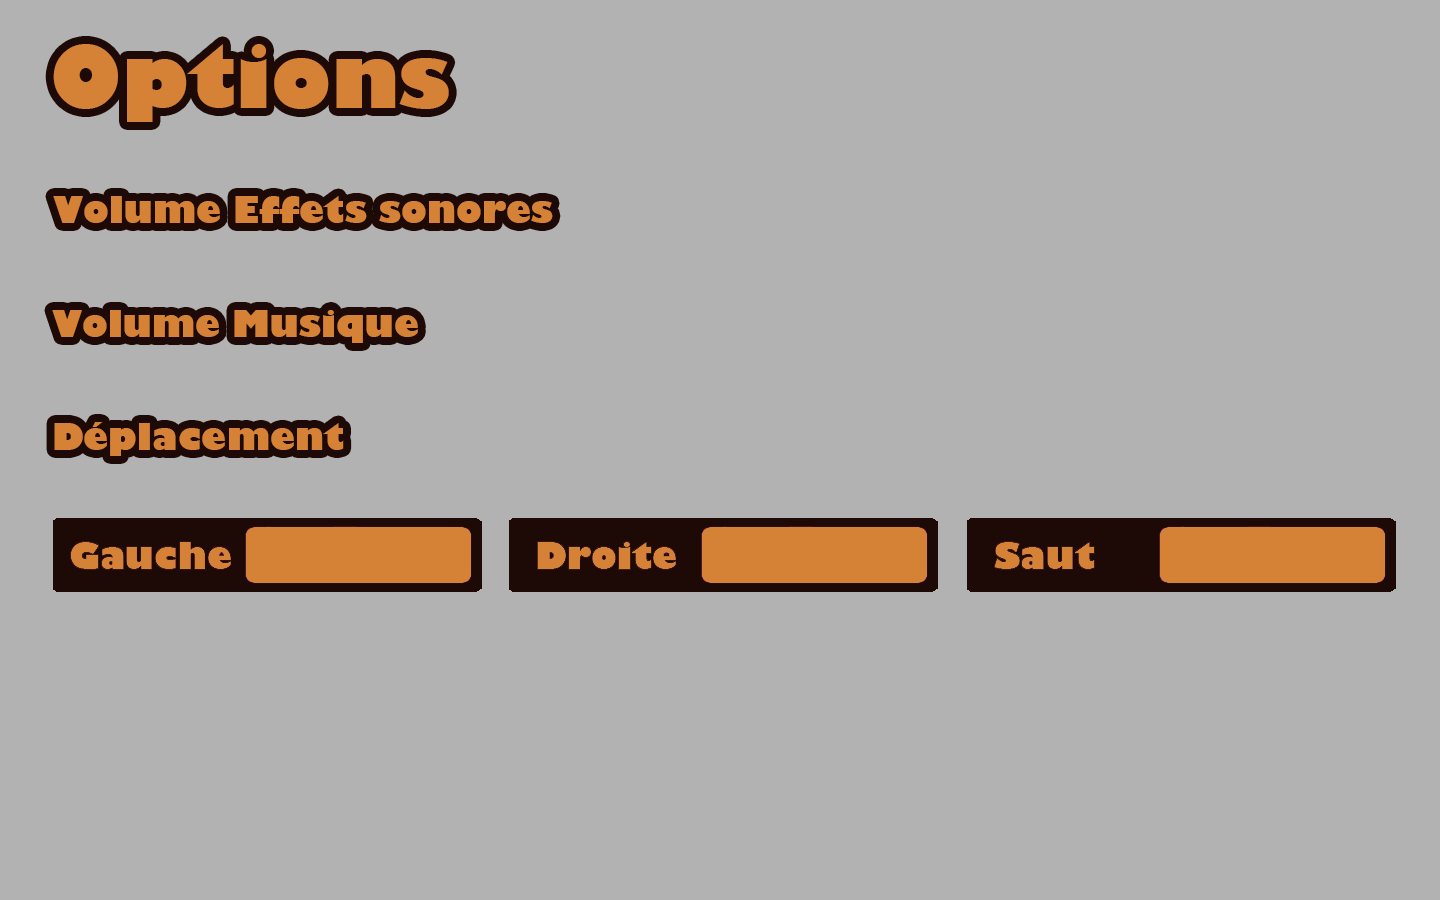
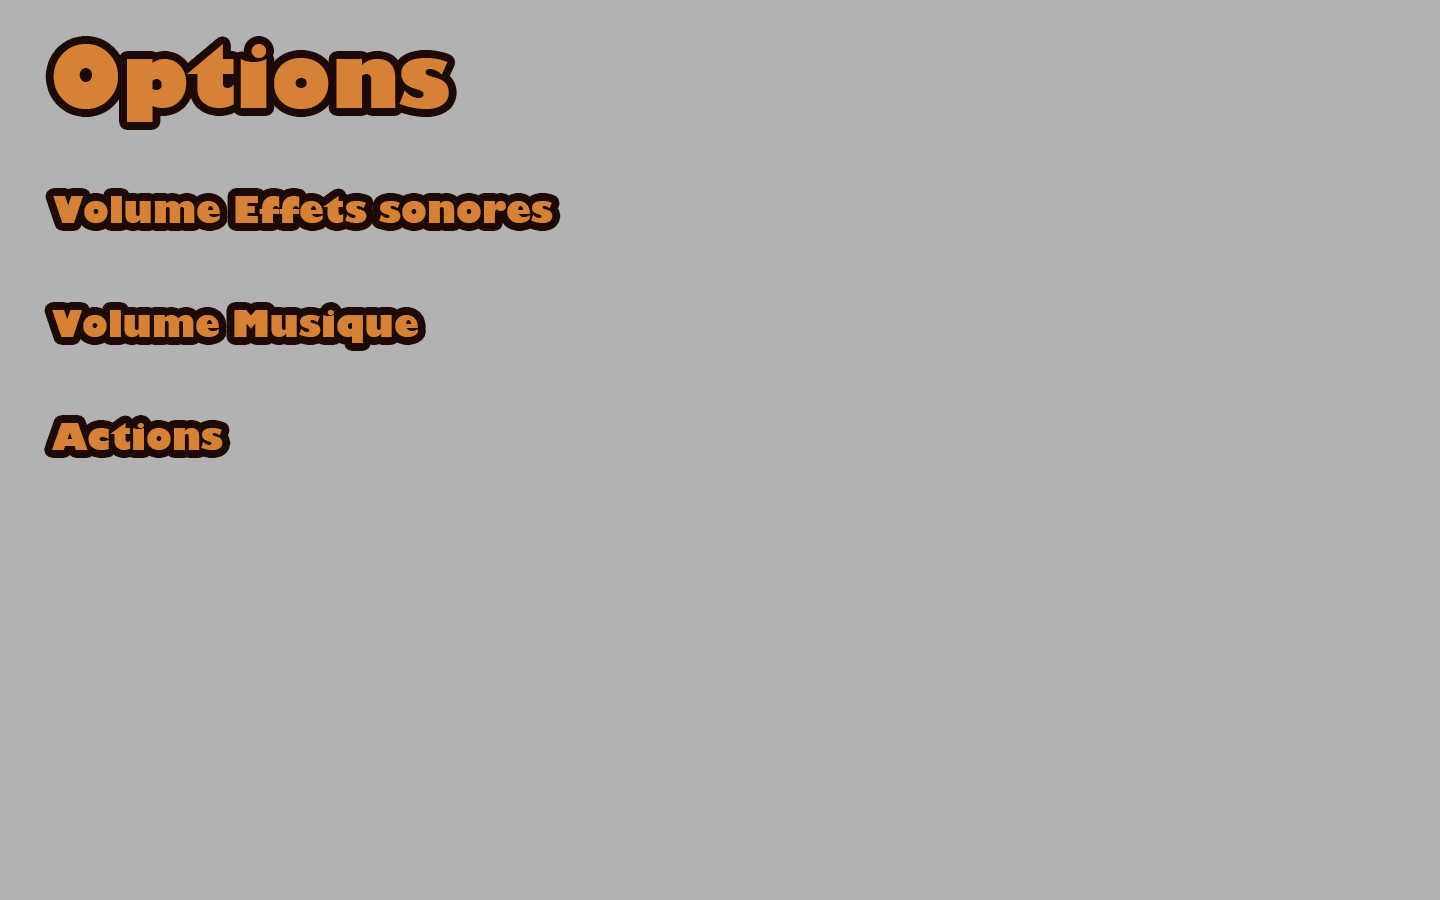
Modification des boutons et rajouts de boutons...etc etc écris pas Tristan

Changed region(s): [[0.0312, 0.56, 0.9688, 0.6844], [0.0312, 0.4356, 0.25, 0.5289]]

diff --git a/BBTA/BBTA/Classe/Menus/MenuOptions.cs b/BBTA/BBTA/Classe/Menus/MenuOptions.cs
@@ -13,7 +13,10 @@ namespace BBTA.Classe.Menus
     public class MenuOptions : MenuArrierePlan
     {
         private Texture2D lettrage;
-        private Bouton btnRetour;
+        //private Bouton Annuler;
+        private Bouton btnDefaut;
+        private Bouton btnValider;
+
         private EtatJeu prochainEtat;
 
         private Slider sliderEffet;
@@ -34,9 +37,6 @@ namespace BBTA.Classe.Menus
         protected override void LoadContent()
         {
             lettrage = Game.Content.Load<Texture2D>(@"Ressources\Menus\Options\lettrageOption");
-            btnRetour = new Bouton(Game.Content.Load<Texture2D>(@"Ressources\Menus\Options\btnRetour"), new Vector2(1200, 800), null);
-            btnRetour.Clic += new EventHandler(btnRetour_Clic);
-
             sliderEffet = new Slider(Game.Content.Load<Texture2D>(@"Ressources\Menus\Options\ArrierePlanSlider"), new Vector2(900, 225),
                                        Game.Content.Load<Texture2D>(@"Ressources\Menus\Options\BarreSlider"),
                                        Game.Content.Load<Texture2D>(@"Ressources\Menus\Options\btnSlider"),
@@ -46,6 +46,9 @@ namespace BBTA.Classe.Menus
                                         Game.Content.Load<Texture2D>(@"Ressources\Menus\Options\BarreSlider"),
                                         Game.Content.Load<Texture2D>(@"Ressources\Menus\Options\btnSlider"),
                                         (float)OptionJeu.InformationSonore.Musique / 100);
+
+            /*Annuler = new Bouton(Game.Content.Load<Texture2D>(@"Ressources\Menus\Options\btnRetour"), new Vector2(1200, 800), null);
+            Annuler.Clic += new EventHandler(btnRetour_Clic);*/
             base.LoadContent();
         }
 
@@ -57,7 +60,7 @@ namespace BBTA.Classe.Menus
 
         public override void Update(GameTime gameTime)
         {
-            btnRetour.Update(null);
+            //Annuler.Update(null);
             base.Update(gameTime);
             sliderEffet.Deplacement();
             pourcentageEffet = sliderEffet.ObtenirPourcentage();
@@ -81,9 +84,9 @@ namespace BBTA.Classe.Menus
             base.Draw(gameTime);
             spriteBatch.Begin(SpriteSortMode.Immediate, BlendState.AlphaBlend, null, null, null, null, Resolution.getTransformationMatrix());
             spriteBatch.Draw(lettrage, Vector2.Zero, Color.White);
-            btnRetour.Draw(spriteBatch);
             sliderEffet.Draw(spriteBatch);
             sliderMusique.Draw(spriteBatch);
+            //Annuler.Draw(spriteBatch);
             spriteBatch.End();
         }
 

diff --git a/BBTA/BBTA/Classe/Menus/MenuConfiguration.cs b/BBTA/BBTA/Classe/Menus/MenuConfiguration.cs
@@ -38,8 +38,8 @@ namespace BBTA.Classe.Menus
         protected override void LoadContent()
         {
             lettrage = Game.Content.Load<Texture2D>(@"Ressources\Menus\Configuration\lettrageConfiguration");
-            
-            btnRetour = new Bouton(Game.Content.Load<Texture2D>(@"Ressources\Menus\Options\btnRetour"), new Vector2(1150, 800), null);
+
+            btnRetour = new Bouton(Game.Content.Load<Texture2D>(@"Ressources\Menus\Configuration\btnRetour"), new Vector2(1150, 800), null);
             btnRetour.Clic += new EventHandler(btnRetour_Clic);
             
             btnConfirmer = new Bouton(Game.Content.Load<Texture2D>(@"Ressources\Menus\Configuration\btnConfirmer"), new Vector2(1150, 700), null);
